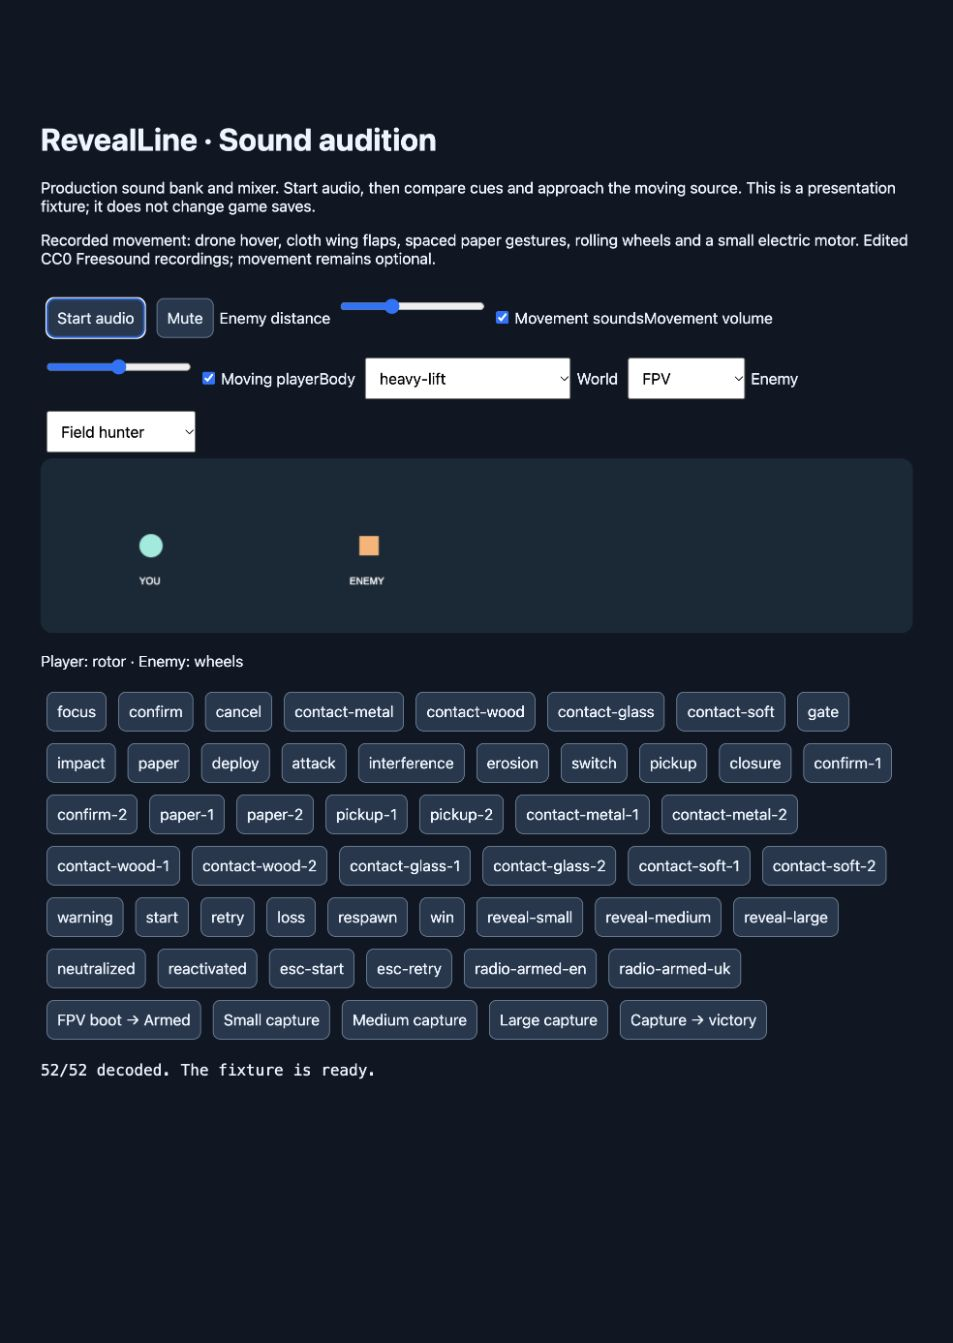
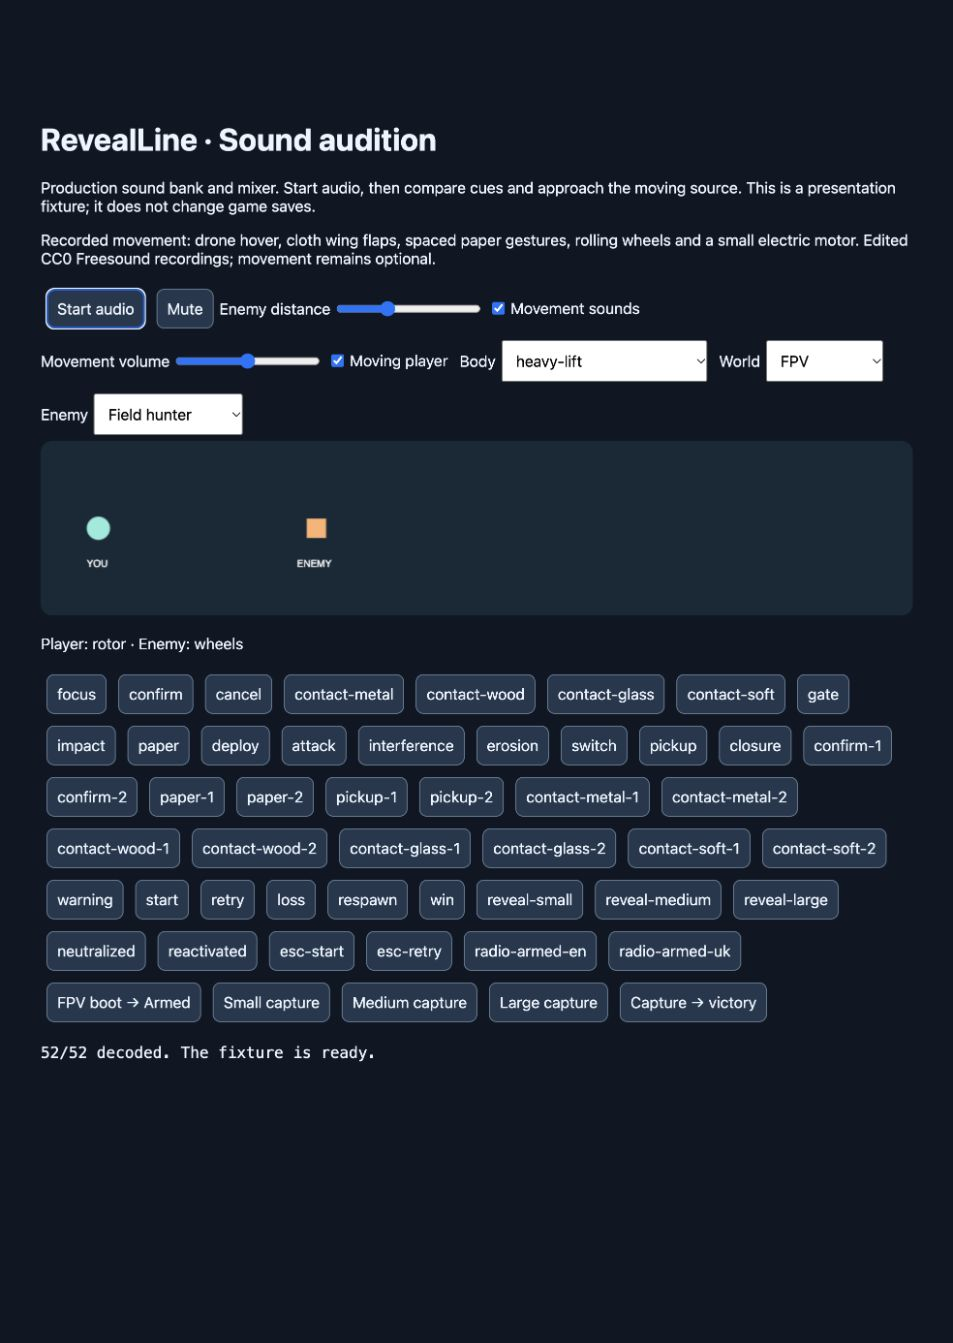
Record actor sound coverage build and preview evidence

diff --git a/authoring/audio/revealline-v1/audition.html b/authoring/audio/revealline-v1/audition.html
@@ -1,4 +1,4 @@
-<!doctype html><html lang="en"><meta charset="utf-8"><meta name="viewport" content="width=device-width"><title>RevealLine sound audition</title><style>body{background:#101723;color:#edf5ff;font:16px system-ui;max-width:900px;margin:40px auto;padding:20px}button,select,input{font:inherit;margin:6px;padding:10px}button{background:#24384e;color:inherit;border:1px solid #607890;border-radius:8px}canvas{width:100%;background:#162a37;border-radius:12px}#cues{display:flex;flex-wrap:wrap}pre{white-space:pre-wrap}</style><h1>RevealLine · Sound audition</h1><p>Production sound bank and mixer. Start audio, then compare cues and approach the moving source. This is a presentation fixture; it does not change game saves.</p><p>Recorded movement: drone hover, cloth wing flaps, spaced paper gestures, rolling wheels and a small electric motor. Edited CC0 Freesound recordings; movement remains optional.</p><button id="enable">Start audio</button><button id="mute">Mute</button><label>Enemy distance <input id="distance" type="range" min="0" max="80" value="25"></label><label><input type="checkbox" id="movement-sound">Movement sounds</label><label>Movement volume <input id="movement-volume" type="range" min="0" max="100"></label><label><input type="checkbox" id="moving" checked>Moving player</label><label>Body <select id="body"><option value="fpv-scout">FPV rotor</option><option value="heritage-bird">Bird wings</option><option value="heritage-weaver">Thread / paper</option><option value="ground-rover">Ground wheels</option><option value="arcade">Arcade motor</option></select></label><label>World <select id="world"><option value="fpv">FPV</option><option value="atlas">Heritage</option><option value="retro">Arcade</option></select></label><label>Enemy <select id="enemy-kind"></select></label><canvas width="900" height="180" id="board"></canvas><p id="movementstatus">Movement preview is off.</p><div id="cues"></div><pre id="status">Audio not activated.</pre><script type="module">
+<!doctype html><html lang="en"><meta charset="utf-8"><meta name="viewport" content="width=device-width"><title>RevealLine sound audition</title><style>body{background:#101723;color:#edf5ff;font:16px system-ui;max-width:900px;margin:40px auto;padding:20px}button,select,input{font:inherit;margin:6px;padding:10px}button{background:#24384e;color:inherit;border:1px solid #607890;border-radius:8px}canvas{width:100%;background:#162a37;border-radius:12px}label{display:inline-flex;align-items:center;gap:6px;margin:6px 12px 6px 0;max-width:100%}label input,label select{margin:0}#cues{display:flex;flex-wrap:wrap}pre{white-space:pre-wrap}</style><h1>RevealLine · Sound audition</h1><p>Production sound bank and mixer. Start audio, then compare cues and approach the moving source. This is a presentation fixture; it does not change game saves.</p><p>Recorded movement: drone hover, cloth wing flaps, spaced paper gestures, rolling wheels and a small electric motor. Edited CC0 Freesound recordings; movement remains optional.</p><button id="enable">Start audio</button><button id="mute">Mute</button><label>Enemy distance <input id="distance" type="range" min="0" max="80" value="25"></label><label><input type="checkbox" id="movement-sound">Movement sounds</label><label>Movement volume <input id="movement-volume" type="range" min="0" max="100"></label><label><input type="checkbox" id="moving" checked>Moving player</label><label>Body <select id="body"><option value="fpv-scout">FPV rotor</option><option value="heritage-bird">Bird wings</option><option value="heritage-weaver">Thread / paper</option><option value="ground-rover">Ground wheels</option><option value="arcade">Arcade motor</option></select></label><label>World <select id="world"><option value="fpv">FPV</option><option value="atlas">Heritage</option><option value="retro">Arcade</option></select></label><label>Enemy <select id="enemy-kind"></select></label><canvas width="900" height="180" id="board"></canvas><p id="movementstatus">Movement preview is off.</p><div id="cues"></div><pre id="status">Audio not activated.</pre><script type="module">
 import {Soundscape} from '../../../game/ui/audio.mjs';
 import {createAudioMaster} from '../../../game/ui/audio-master.mjs';
 import {PLAYER_MOVEMENT} from '../../../game/ui/movement-profiles.mjs';

diff --git a/docs/verification/spatial-audio/implementation.md b/docs/verification/spatial-audio/implementation.md
@@ -100,3 +100,5 @@ Recorded-movement packaging completed: 1,834 files, all 57 effect/license/source
 Extend the user-approved five recorded ingredients to explicit assignments for all 28 player bodies, 28 world/enemy combinations, 12 Journey palettes, company recipes, Team threats and combat scouts. Export the coverage matrix under `authoring/audio/revealline-v1/actor-movement-coverage.json`. Unknown custom artwork retains a recorded role/family fallback. Stationary bosses retain their authoritative event cues without idle sound. Equipped class and replay FPV appearance now choose the visible body; freeze/dormant/inactive details suppress motion loops. No simulation or source audio files changed.
 
 126 focused audio/preferences/director/profile/company/replay/offline tests pass. Catalogue tests compare the explicit player map against the shipped presets and exhaust all world/enemy combinations; integration tests move each mobile enemy role and combat scout, then verify authoritative movement suppression. Global lint passed. Native audition: 52/52 decoded; heritage swallow/moth uses wings, weaver/serpent uses paper, document rover uses wheels, stationary lane emitter stays quiet. Full-suite and sustained physical listening qualifications remain open.
+
+Actor-movement build passed: all four changed/new runtime modules match source and are in the offline core cache. Exact identifiers are in `actor-movement-build.json`; the 52-file recorded bank is unchanged. Global formatting and lint passed. Audition evidence is `actor-movement-audition.png`.
